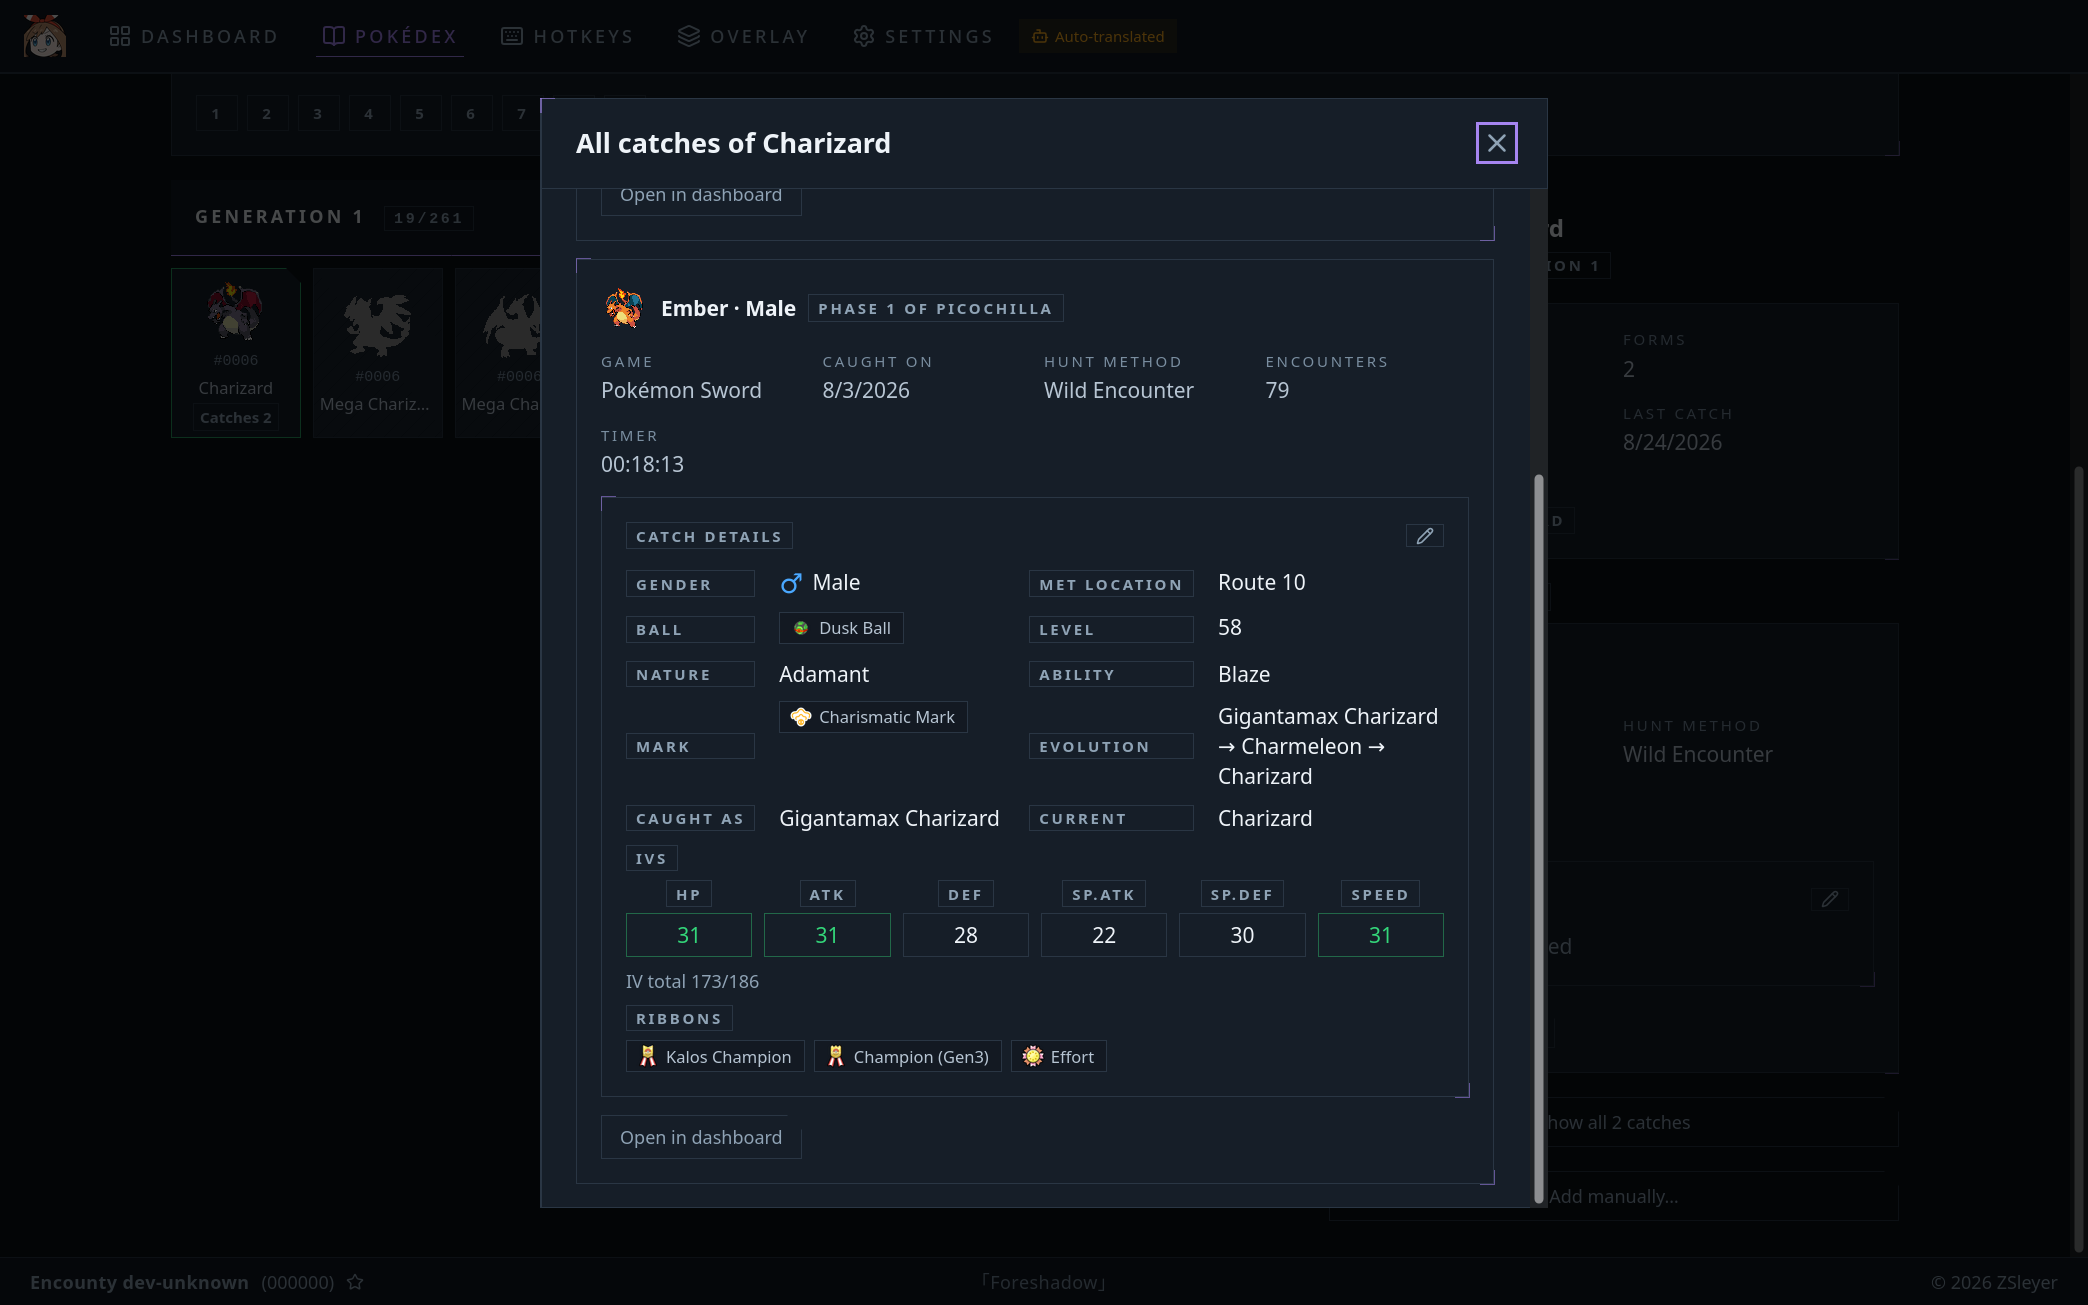
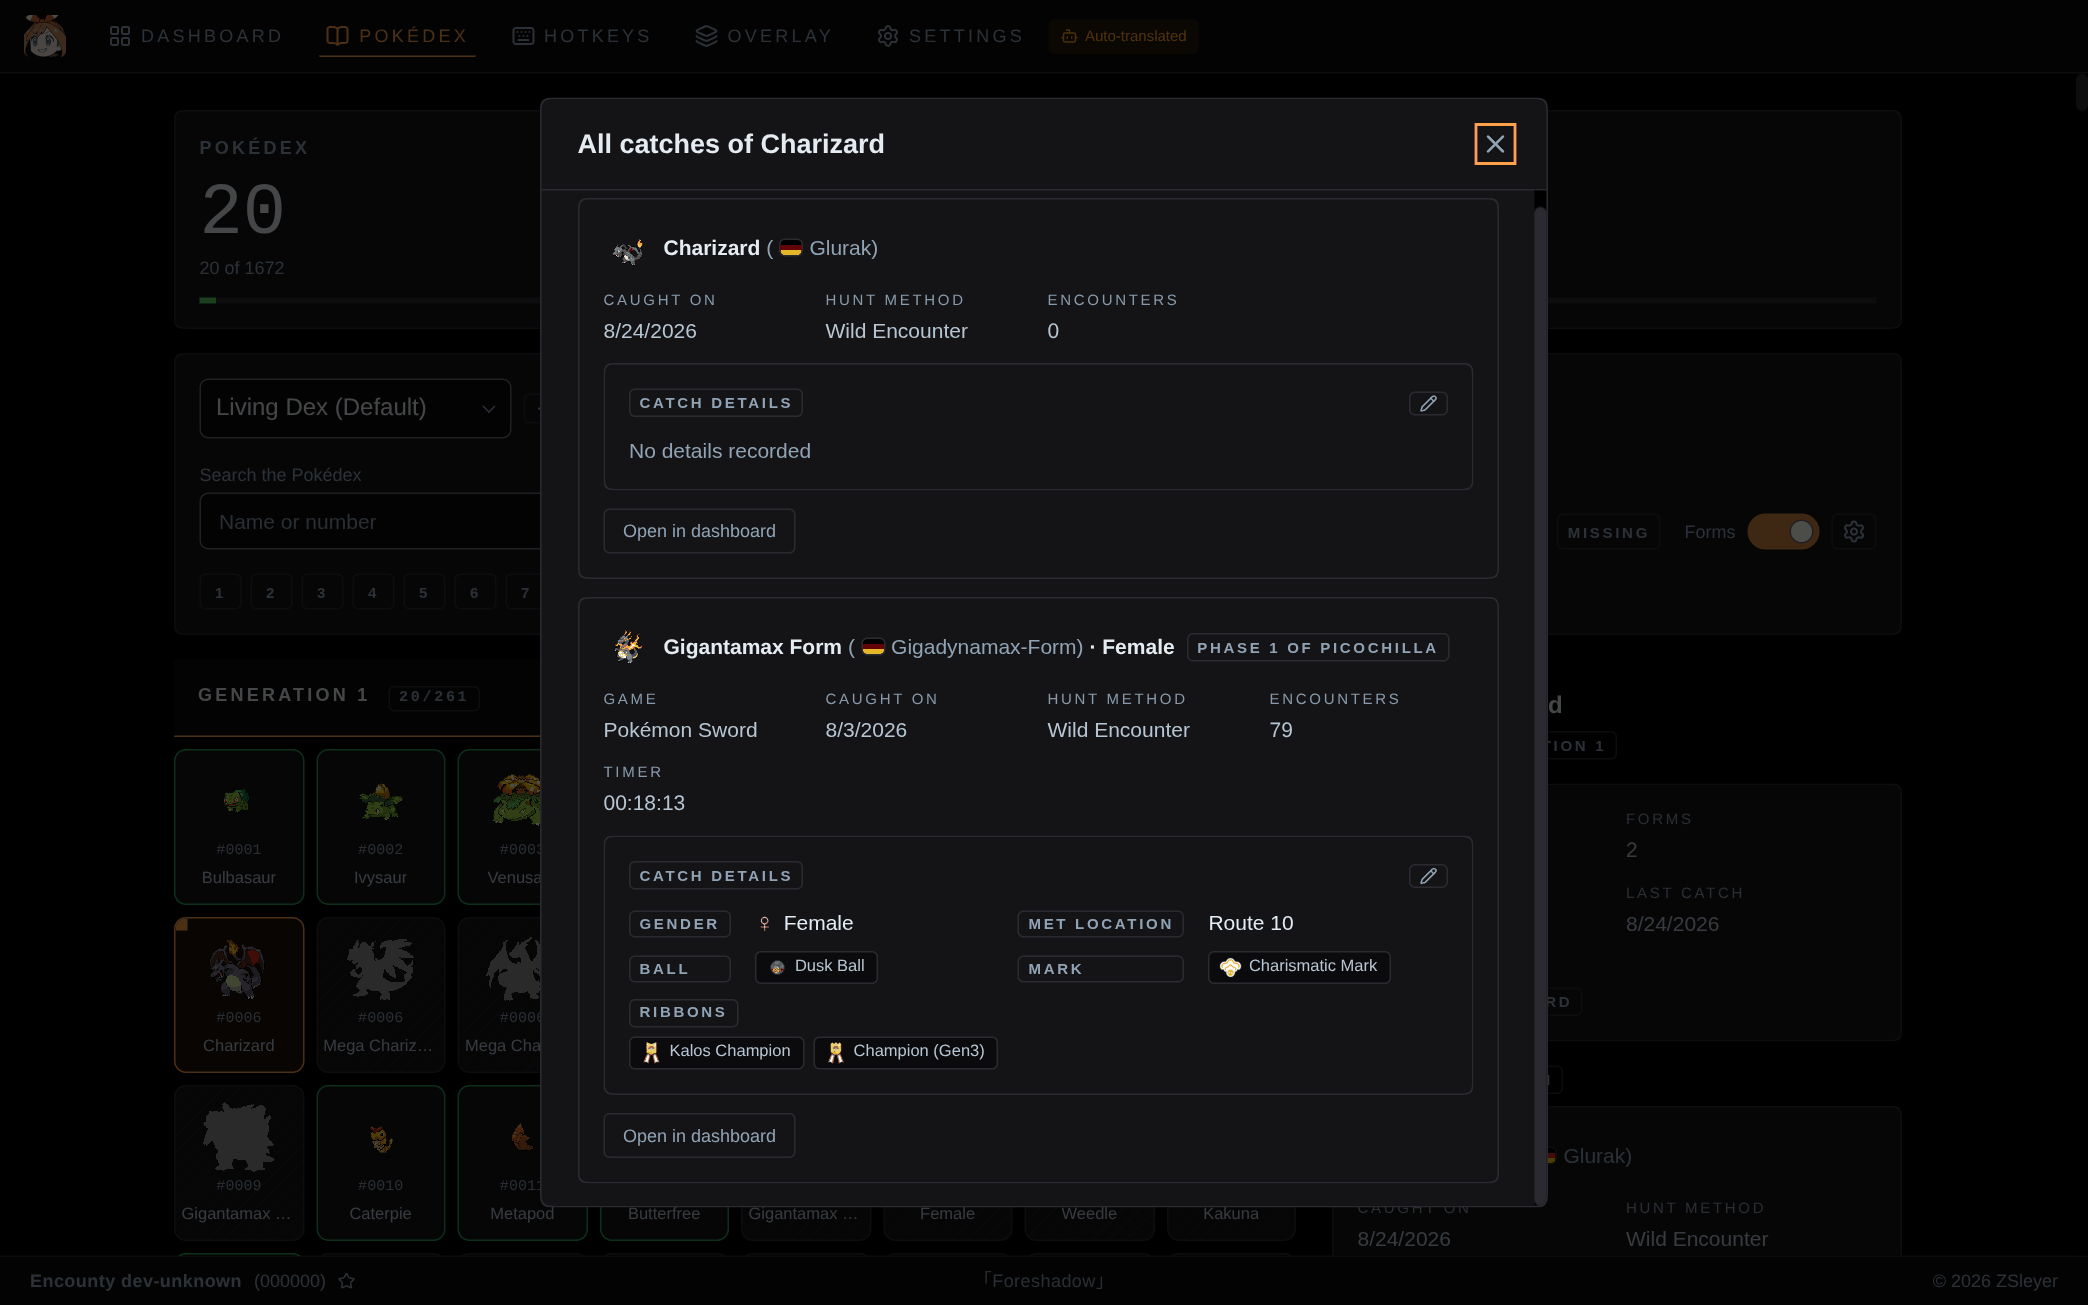
docs(site): recapture the screenshots on the new theme
The set still showed the violet Tempest look with cut corners, which the
site has not matched since the OLED palette and the radius scale landed.

Seven of the eight are recaptured from the same views at the same size, on
the OLED palette with the orange default accent. Dates and numbers are
pinned to en-US for the capture, since the app formats them with the
browser locale rather than the UI language and the captures are English.

dashboard-group.png stays on the old render for now. Its point is the live
game preview in every tile, and without a running capture source those
tiles read "No connection".

The catch-details alt text loses the fields that catch no longer carries.
It described the image, so it has to match it; the prose around it
describes what the app supports and is unchanged.

diff --git a/site/index.html b/site/index.html
@@ -355,7 +355,7 @@
               <button type="button" class="shot block w-full">
                 <img
                   src="/screenshots/catch-details.png"
-                  alt="Catch details with gender, met location, ball, level, nature, ability, mark, evolution history, IVs and ribbons"
+                  alt="Catch details with gender, met location, ball, mark and ribbons"
                   data-i18n-attr="alt:screens.catchAlt"
                   class="w-full"
                   width="2088"
